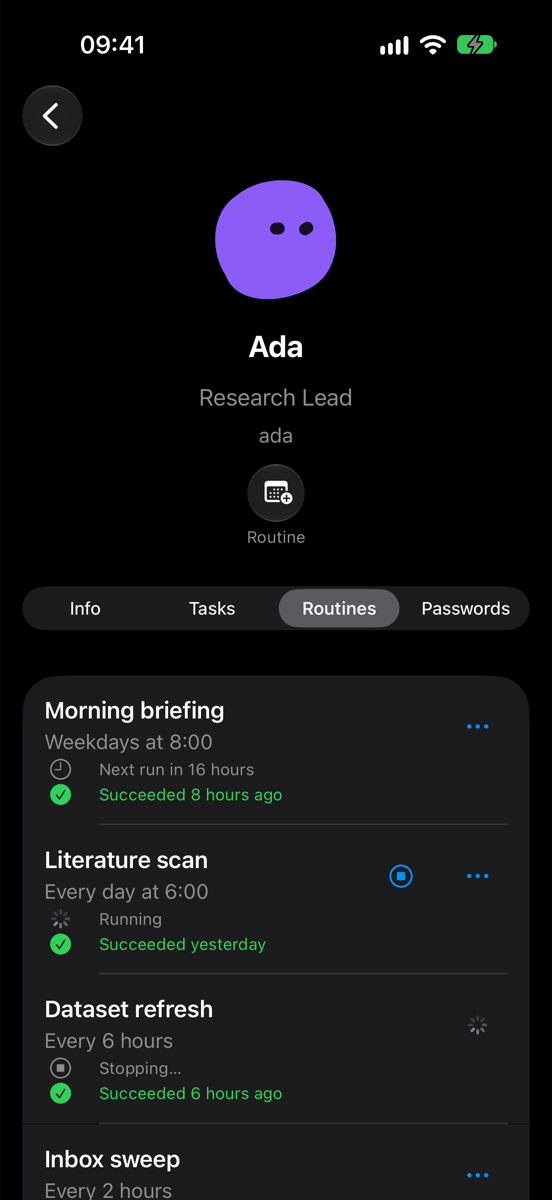
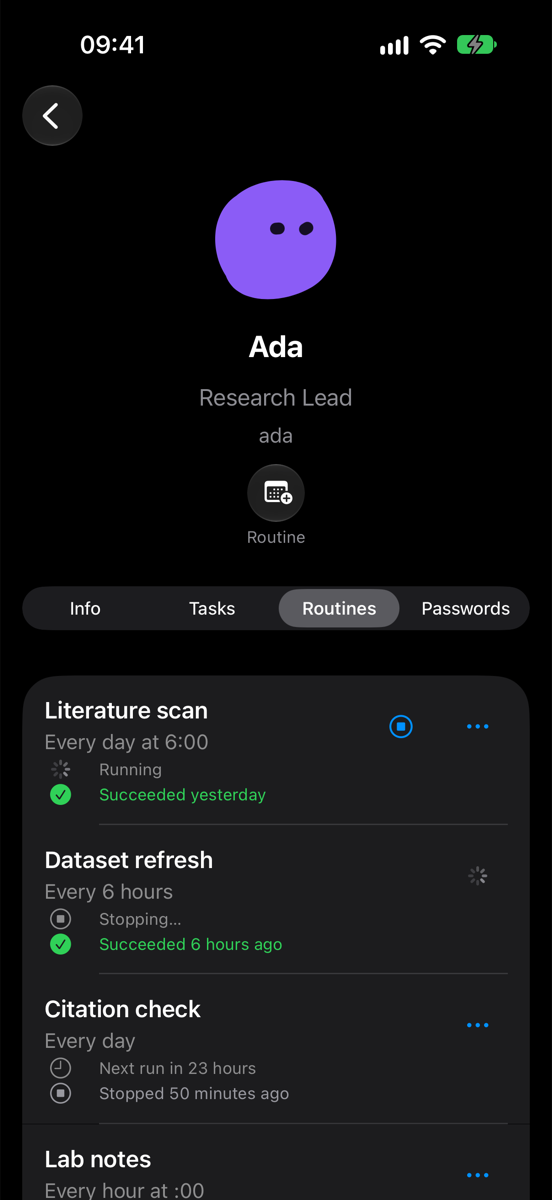
Routines: probe checks history and delete, aligned trailing controls, fixture-driven tests

diff --git a/Tests/routine_probe/main.swift b/Tests/routine_probe/main.swift
@@ -92,20 +92,20 @@ func plainJSON(_ path: String) async throws -> [String: JSONValue] {
     return object
 }
 
-func probeRunSessions() async throws -> [String] {
+func probeRunSessions(_ titles: [String] = ["Long check", "Minute check"]) async throws -> [(id: String, ended: Bool)] {
     guard case .array(let sessions) = try await plainJSON("api/sessions")["sessions"] else { return [] }
     return sessions.compactMap { session in
         guard case .object(let row) = session, case .string("cron") = row["source"], case .string(let title) = row["title"], case .string(let id) = row["id"],
-              title.hasPrefix("[bot:crew-test] Long check · ") || title.hasPrefix("[bot:crew-test] Minute check · ")
+              titles.contains(where: { title.hasPrefix("[bot:crew-test] \($0) · ") })
         else { return nil }
-        return id
+        if case .number = row["ended_at"] { return (id, true) }
+        return (id, false)
     }
 }
 
 let store = RoutineStore()
 let cleanupOnly = CommandLine.arguments.contains("--cleanup")
 var created: [String] = CommandLine.arguments.dropFirst().filter { $0 != "--cleanup" }
-var removed: Set<String> = []
 
 if !cleanupOnly {
     Task { await store.run(profile: "crew-test", gateway: gateway, urlSession: urlSession) }
@@ -118,7 +118,10 @@ if !cleanupOnly {
         guard let job = store.jobs.first(where: { $0.id == id }) else { throw HermesError.invalidResponse }
         check(!store.isRunning(job) && job.tracksRuns, "idle routine is not running")
 
-        let trigger = Task { await store.trigger(job) }
+        let trigger = Task {
+            await store.trigger(job)
+            log("Run Now returned")
+        }
         try await Task.sleep(for: .milliseconds(300))
         check(store.isRunning(job), "Run Now shows Running at once")
         try await Task.sleep(for: .seconds(12))
@@ -135,6 +138,11 @@ if !cleanupOnly {
         check(stopped.map { !store.isRunning($0) } ?? false, "row no longer Running")
         await trigger.value
         check(store.alert == nil, "the returning Run Now raised no alert")
+        if case .array(let runs) = try await plainJSON("api/cron/jobs/\(id)/runs")["runs"], case .object(let newest) = runs.first, case .string(let title) = newest["title"] {
+            check(title.hasPrefix("CANCELLED"), "run history titles the stopped run \(title.prefix(40))")
+        } else {
+            check(false, "run history lists the stopped run")
+        }
 
         if let stopped { await store.stop(stopped) }
         check(store.alert?.title == "Nothing Was Running", "second Stop says Nothing Was Running")
@@ -156,18 +164,21 @@ if !cleanupOnly {
         check(paused?.isPaused == true && paused?.liveRunID != nil, "Pause leaves the live run going")
         if let job = store.jobs.first(where: { $0.id == id }) { await store.delete(job) }
         check(!store.jobs.contains { $0.id == id } && store.alert == nil, "Delete while running removes the row")
-        removed.insert(id)
+        check(try await waitFor(30) { try await probeRunSessions(["Minute check"]).contains { $0.ended } }, "Delete while running ends the run")
     } catch {
         check(false, "scheduler flow threw \(error)")
     }
 }
 
-for id in created where !removed.contains(id) {
-    let reply = try? await gateway.call("cron.manage", ["action": .string("remove"), "profile": .string("crew-test"), "name": .string(id)] as [String: JSONValue], as: JSONValue.self)
-    log(reply == nil ? "REMOVE FAILED, remove \(id) on crew-test by hand" : "removed \(id)")
+for id in created {
+    _ = try? await gateway.call("cron.manage", ["action": .string("remove"), "profile": .string("crew-test"), "name": .string(id)] as [String: JSONValue], as: JSONValue.self)
+}
+if case .array(let left) = try await fetch(cron(""), with: urlSession, as: JSONValue.self) {
+    let names = left.compactMap { job -> String? in if case .object(let row) = job, case .string(let name) = row["name"] { name } else { nil } }
+    check(!names.contains { $0.hasPrefix("[bot:crew-test] Long check") || $0.hasPrefix("[bot:crew-test] Minute check") }, "no probe routine left on crew-test")
 }
 try await Task.sleep(for: .seconds(5))
-for session in (try? await probeRunSessions()) ?? [] {
+for session in ((try? await probeRunSessions()) ?? []).map(\.id) {
     let snapshot = (try? await plainJSON("api/sessions/\(session)/mutation-snapshot")) ?? [:]
     var request = hermesRequest("api/sessions/\(session)", on: server)
     request.httpMethod = "DELETE"

diff --git a/Tests/CrewTests/RoutineStopScenarioTests.swift b/Tests/CrewTests/RoutineStopScenarioTests.swift
@@ -11,14 +11,18 @@ nonisolated private func listing(_ name: String, _ edit: (inout [String: Any]) -
     return (try? JSONSerialization.data(withJSONObject: [object])) ?? Data()
 }
 
+nonisolated private let recordedLiveRunID = ((try? JSONSerialization.jsonObject(with: Data(contentsOf: scenario.appending(path: "jobs.running.json")))) as? [String: Any])
+    .flatMap { ($0["live_execution"] as? [String: Any])?["id"] as? String } ?? ""
+
 private func job(_ listed: Data) throws -> RoutineJob {
     let decoder = JSONDecoder()
     decoder.keyDecodingStrategy = .convertFromSnakeCase
     return try decoder.decode([RoutineJob].self, from: listed)[0]
 }
 
-private func missed(finishedAt: String) -> Data {
-    listing("jobs.stopped") {
+private func missed(secondsAfterTheLastRun offset: TimeInterval) throws -> Data {
+    let finishedAt = try #require(try job(listing("jobs.stopped")).lastRun).addingTimeInterval(offset).ISO8601Format()
+    return listing("jobs.stopped") {
         $0["latest_execution"] = [
             "id": "m1", "status": "missed", "error": "missed ×3 (skipped, catch-up off; next run 2026-11-11T19:58:24+00:00)",
             "claimed_at": finishedAt, "finished_at": finishedAt, "scheduled_instant": "2026-11-10T17:00:00+00:00",
@@ -35,7 +39,7 @@ private func missed(finishedAt: String) -> Data {
     #expect(idle.title == "Long check")
 
     let running = try job(listing("jobs.running"))
-    #expect(running.liveRunID == "ae927ca4089b4a0d8025937ce75192a5")
+    #expect(running.liveRunID == recordedLiveRunID && !recordedLiveRunID.isEmpty)
 
     let stopped = try job(listing("jobs.stopped"))
     #expect(stopped.liveRunID == nil)
@@ -55,7 +59,7 @@ private func missed(finishedAt: String) -> Data {
 }
 
 @Test func aMissNewerThanTheLastRunIsTheResult() throws {
-    let routine = try job(missed(finishedAt: "2026-11-10T21:30:00+00:00"))
+    let routine = try job(missed(secondsAfterTheLastRun: 3600))
     #expect(routine.lastStatus == "missed")
     #expect(routine.missedRuns == 3)
     #expect(routine.lastRun == (try Date("2026-11-10T17:00:00+00:00", strategy: .iso8601)))
@@ -64,7 +68,7 @@ private func missed(finishedAt: String) -> Data {
 }
 
 @Test func aMissBookedDuringTheLastRunDoesNotHideItsResult() throws {
-    let routine = try job(missed(finishedAt: "2026-11-10T20:32:10+00:00"))
+    let routine = try job(missed(secondsAfterTheLastRun: -10))
     #expect(routine.lastStatus == "cancelled")
     #expect(routine.missedRuns == nil)
 }
@@ -87,7 +91,7 @@ nonisolated private struct CronStub: Sendable {
     var afterCancel = listing("jobs.stopped")
     var cancels = true
     var triggerFails = false
-    var triggerDelay = 0.5
+    var triggerDelay = 1.0
 }
 
 nonisolated private final class CronServer: URLProtocol {
@@ -108,7 +112,7 @@ nonisolated private final class CronServer: URLProtocol {
         let (body, fails, delay): (Data, Bool, Double) = CronServer.state.withLock { stub in
             if path.hasSuffix("/cancel") {
                 if stub.cancels { stub.list = stub.afterCancel }
-                return (Data(#"{"cancelled": \#(stub.cancels), "execution_id": "ae927ca4089b4a0d8025937ce75192a5", "success": true}"#.utf8), false, 0)
+                return (Data(#"{"cancelled": \#(stub.cancels), "execution_id": "\#(recordedLiveRunID)", "success": true}"#.utf8), false, 0)
             }
             if path.hasSuffix("/trigger") { return (Data("{}".utf8), stub.triggerFails, stub.triggerDelay) }
             return (stub.list, false, 0)

diff --git a/Sources/Inspector/InspectorSnapshots.swift b/Sources/Inspector/InspectorSnapshots.swift
@@ -25,11 +25,6 @@ struct InspectorFixtureScreen: View {
 
     private let routines = [
         RoutineJob(
-            id: "a1", name: "[bot:ada] Morning briefing", title: "Morning briefing", prompt: "Summarise overnight papers.",
-            schedule: "0 8 * * 1-5", nextRun: .now.addingTimeInterval(16 * 3600), lastRun: .now.addingTimeInterval(-8 * 3600),
-            lastStatus: "ok", issue: nil, isPaused: false
-        ),
-        RoutineJob(
             id: "a4", name: "[bot:ada] Literature scan", title: "Literature scan", prompt: "Scan new preprints.",
             schedule: "0 6 * * *", nextRun: .now.addingTimeInterval(20 * 3600), lastRun: .now.addingTimeInterval(-24 * 3600),
             lastStatus: "ok", issue: nil, isPaused: false, liveRunID: "e4", tracksRuns: true
@@ -40,11 +35,6 @@ struct InspectorFixtureScreen: View {
             lastStatus: "ok", issue: nil, isPaused: false, liveRunID: "e7", tracksRuns: true
         ),
         RoutineJob(
-            id: "a2", name: "[bot:ada] Inbox sweep", title: "Inbox sweep", prompt: "Triage the inbox.",
-            schedule: "every 120m", nextRun: .now.addingTimeInterval(40 * 60), lastRun: .now.addingTimeInterval(-80 * 60),
-            lastStatus: "error", issue: "Model provider returned 429 Too Many Requests.", isPaused: false
-        ),
-        RoutineJob(
             id: "a5", name: "[bot:ada] Citation check", title: "Citation check", prompt: "Check the draft's citations.",
             schedule: "every 1440m", nextRun: .now.addingTimeInterval(23 * 3600), lastRun: .now.addingTimeInterval(-50 * 60),
             lastStatus: "cancelled", issue: nil, isPaused: false
@@ -53,6 +43,16 @@ struct InspectorFixtureScreen: View {
             id: "a6", name: "[bot:ada] Lab notes", title: "Lab notes", prompt: "Tidy the lab notes.",
             schedule: "0 * * * *", nextRun: .now.addingTimeInterval(25 * 60), lastRun: .now.addingTimeInterval(-3 * 3600),
             lastStatus: "missed", issue: nil, isPaused: false, missedRuns: 3
+        ),
+        RoutineJob(
+            id: "a1", name: "[bot:ada] Morning briefing", title: "Morning briefing", prompt: "Summarise overnight papers.",
+            schedule: "0 8 * * 1-5", nextRun: .now.addingTimeInterval(16 * 3600), lastRun: .now.addingTimeInterval(-8 * 3600),
+            lastStatus: "ok", issue: nil, isPaused: false
+        ),
+        RoutineJob(
+            id: "a2", name: "[bot:ada] Inbox sweep", title: "Inbox sweep", prompt: "Triage the inbox.",
+            schedule: "every 120m", nextRun: .now.addingTimeInterval(40 * 60), lastRun: .now.addingTimeInterval(-80 * 60),
+            lastStatus: "error", issue: "Model provider returned 429 Too Many Requests.", isPaused: false
         ),
         RoutineJob(
             id: "a3", name: "[bot:ada] Weekly digest", title: "Weekly digest", prompt: "Write the weekly digest.",

diff --git a/Sources/Tasks/RoutineList.swift b/Sources/Tasks/RoutineList.swift
@@ -158,26 +158,28 @@ private struct RoutineRow<Actions: View>: View {
                     .controlSize(.small)
                     .frame(width: actionSize, height: actionSize)
             } else {
-                if isRunning, job.tracksRuns {
-                    Button(action: onStop) {
-                        Label("Stop", systemImage: "stop.circle")
+                HStack(spacing: 12) {
+                    if isRunning, job.tracksRuns {
+                        Button(action: onStop) {
+                            Label("Stop", systemImage: "stop.circle")
+                                .labelStyle(.iconOnly)
+                                .frame(width: actionSize, height: actionSize)
+                                .contentShape(.rect)
+                        }
+                        .buttonStyle(.borderless)
+                    }
+                    Menu {
+                        actions
+                    } label: {
+                        Label("Actions", systemImage: "ellipsis")
                             .labelStyle(.iconOnly)
                             .frame(width: actionSize, height: actionSize)
                             .contentShape(.rect)
                     }
+                    .menuIndicator(.hidden)
                     .buttonStyle(.borderless)
+                    .fixedSize()
                 }
-                Menu {
-                    actions
-                } label: {
-                    Label("Actions", systemImage: "ellipsis")
-                        .labelStyle(.iconOnly)
-                        .frame(width: actionSize, height: actionSize)
-                        .contentShape(.rect)
-                }
-                .menuIndicator(.hidden)
-                .buttonStyle(.borderless)
-                .fixedSize()
             }
         }
         .opacity(job.isPaused ? 0.7 : 1)
